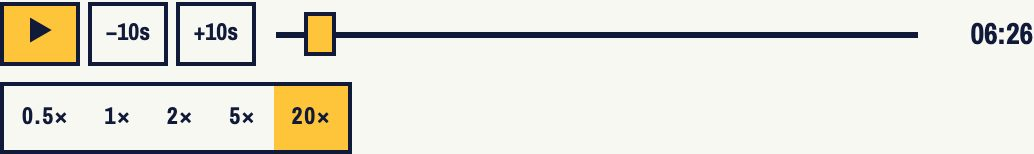
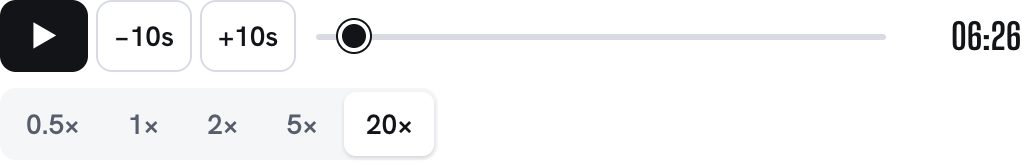
Ax61: follow C11 tokens: kit colours for cues, yellow only on pivot marks, 8px controls, blue focus, no middots

Changed region(s): [[0.0, 0.0, 1.0, 0.4675], [0.0, 0.5195, 0.4247, 1.0]]

diff --git a/apps/web/src/styles/control-bar.css b/apps/web/src/styles/control-bar.css
@@ -1,38 +1,42 @@
 /* Ax61: the one control bar for the replay pitch and the clips. */
-.ctl { display: flex; flex-wrap: wrap; align-items: center; gap: 8px 10px; font-family: var(--pv-label); font-weight: 700; font-size: 12px; min-width: 0; }
+.ctl { display: flex; flex-wrap: wrap; align-items: center; gap: 8px 10px; font-family: var(--pv-body); font-weight: 600; font-size: var(--pv-fs-sm); min-width: 0; }
 .ctl-btns { display: inline-flex; gap: 4px; }
-.ctl-btns button { min-width: 40px; height: 32px; padding: 0 6px; border: 2px solid var(--pv-ink); background: var(--pv-sheet); color: var(--pv-ink);
-  font: inherit; cursor: pointer; }
-.ctl-btns button.play { min-width: 40px; font-size: 13px; background: var(--pv-gold); color: var(--pv-on-gold); }
-.ctl-btns button:hover:not(:disabled) { background: var(--pv-gold-soft); }
-.ctl-btns button.play:hover:not(:disabled) { background: var(--pv-gold); filter: brightness(1.06); }
+/* Same look as .btn (C11): hairline, 8px corners; play is the ink primary. Yellow stays for the AI's pivots. */
+.ctl-btns button, .ctl .again { min-width: 44px; height: 36px; padding: 0 8px; border: 1px solid var(--pv-hair); border-radius: var(--pv-r-ctl);
+  background: var(--pv-sheet); color: var(--pv-ink); font: inherit; cursor: pointer; transition: background-color .15s, border-color .15s; }
+.ctl-btns button:hover:not(:disabled), .ctl .again:hover:not(:disabled) { background: var(--pv-sunk); border-color: var(--pv-ink-2); }
+.ctl-btns button.play { background: var(--pv-ink); color: var(--pv-sheet); border-color: var(--pv-ink); }
+.ctl-btns button.play:hover:not(:disabled) { background: color-mix(in oklab, var(--pv-ink) 82%, var(--pv-sheet)); }
+.ctl .again { font-size: 16px; }
 .ctl button:disabled { opacity: .5; cursor: default; }
-.ctl button:focus-visible { outline: 2px solid var(--pv-ink); outline-offset: 2px; }
-.ctl-track { position: relative; flex: 1 1 180px; min-width: 120px; height: 32px; }
-.ctl-track::before { content: ""; position: absolute; left: 0; right: 0; top: 15px; border-top: 3px solid var(--pv-ink); }
-.ctl-track input[type="range"] { position: absolute; inset: 0 -7px; width: calc(100% + 14px); height: 32px; margin: 0; background: transparent;
+.ctl-track { position: relative; flex: 1 1 180px; min-width: 120px; height: 36px; }
+.ctl-track::before { content: ""; position: absolute; left: 0; right: 0; top: 17px; height: 3px; border-radius: var(--pv-r-pill); background: var(--pv-hair); }
+.ctl-track input[type="range"] { position: absolute; inset: 0 -8px; width: calc(100% + 16px); height: 36px; margin: 0; background: transparent;
   appearance: none; cursor: pointer; }
-.ctl-track input[type="range"]::-webkit-slider-runnable-track { height: 32px; background: transparent; }
-.ctl-track input[type="range"]::-webkit-slider-thumb { appearance: none; width: 16px; height: 22px; margin-top: 5px; background: var(--pv-gold);
-  border: 2px solid var(--pv-ink); border-radius: 0; }
+.ctl-track input[type="range"]::-webkit-slider-runnable-track { height: 36px; background: transparent; }
+.ctl-track input[type="range"]::-webkit-slider-thumb { appearance: none; width: 16px; height: 16px; margin-top: 10px; border-radius: 50%;
+  background: var(--pv-ink); border: 2px solid var(--pv-sheet); box-shadow: 0 0 0 1px var(--pv-ink); }
 .ctl-track input[type="range"]::-moz-range-track { background: transparent; }
-.ctl-track input[type="range"]::-moz-range-thumb { width: 12px; height: 18px; background: var(--pv-gold); border: 2px solid var(--pv-ink); border-radius: 0; }
-.ctl-track input[type="range"]:focus-visible { outline: 2px solid var(--pv-ink); }
-/* A mark is a 16px target over the line; what shows is the small bar or dot inside it. */
-.ctl-mk { all: unset; position: absolute; top: 0; width: 16px; height: 12px; margin-left: -8px; cursor: pointer; z-index: 1; display: grid; place-items: center; }
-.ctl-mk i { display: block; width: 4px; height: 12px; background: var(--pv-red); }
-.ctl-mk.goal i { width: 10px; height: 10px; border-radius: 50%; background: #fff; border: 2px solid var(--pv-ink); }
-.ctl-mk.goal.home i { box-shadow: inset 0 0 0 2px var(--pv-home); }
-.ctl-mk.goal.away i { box-shadow: inset 0 0 0 2px var(--pv-away); }
-.ctl-mk.red i { width: 7px; height: 10px; background: var(--pv-red); border: 1.5px solid var(--pv-ink); }
-.ctl-mk.moment i { width: 8px; height: 8px; transform: rotate(45deg); background: var(--pv-gold); border: 1.5px solid var(--pv-ink); }
-.ctl-mk:hover i, .ctl-mk:focus-visible i { outline: 2px solid var(--pv-gold); outline-offset: 1px; }
-.ctl-time { font-size: 15px; min-width: 3.2em; text-align: right; }
+.ctl-track input[type="range"]::-moz-range-thumb { width: 12px; height: 12px; border-radius: 50%; background: var(--pv-ink); border: 2px solid var(--pv-sheet); }
+/* A mark is a 16px target over the line; what shows is the small dot inside it. Pivots are the AI's, so yellow. */
+.ctl-mk { all: unset; position: absolute; top: 2px; width: 16px; height: 14px; margin-left: -8px; cursor: pointer; z-index: 1; display: grid; place-items: center; border-radius: 4px; }
+.ctl-mk i { display: block; width: 10px; height: 10px; border-radius: 50%; background: var(--pv-gold); border: 1.5px solid var(--pv-ink); }
+.ctl-mk.goal i { background: var(--pv-sheet); border: 2px solid var(--pv-ink); }
+.ctl-mk.goal.home i { background: var(--pv-home); }
+.ctl-mk.goal.away i { background: var(--pv-away); }
+.ctl-mk.red i { width: 7px; height: 10px; border-radius: 1px; background: var(--pv-red); }
+.ctl-mk.moment i { width: 8px; height: 8px; border-radius: 1px; transform: rotate(45deg); background: var(--pv-ink-2); border-color: var(--pv-ink-2); }
+.ctl-mk:hover i { box-shadow: 0 0 0 2px var(--pv-sheet), 0 0 0 4px var(--pv-ink-2); }
+.ctl-mk:focus-visible { outline: 2px solid var(--pv-focus); outline-offset: 2px; }
+.ctl-time { font-family: var(--pv-display); font-weight: 700; font-size: var(--pv-fs-lg); min-width: 3.2em; text-align: right; font-variant-numeric: tabular-nums; }
 .ctl .seg button { min-height: 32px; }
 @media (max-width: 480px) {
   .ctl-track { order: -1; flex-basis: 100%; }
-  .ctl .seg button { padding-inline: 7px; }
+  .ctl .seg button { padding-inline: 8px; }
 }
+
+/* A referee's yellow card is data, not the AI's pivot yellow, so it gets its own, warmer shade. */
+:root { --pv-card-yellow: #F2B800; --pv-ball: #FFFFFF; }
 
 /* The event cues on the pitch: drawn in, then faded on real time; held while paused. */
 .pitch .cue { animation: cue-fade 2.2s ease-in forwards; }
@@ -48,15 +52,16 @@
 @keyframes cue-draw { to { stroke-dashoffset: 0; } }
 @keyframes cue-flash { from { transform: scale(.3); opacity: 1; } to { transform: scale(1.4); opacity: 0; } }
 @media (prefers-reduced-motion: reduce) {
+  .pitch .cue { animation: none; }
   .pitch .cue-line { animation: none; stroke-dashoffset: 0; }
   .pitch .cue-flash { animation: none; opacity: .8; }
 }
 .pitch.anim .pl { transition: none; }
-.pitch.anim .ball-trail { stroke: #fff; stroke-width: 3; stroke-dasharray: none; stroke-opacity: .55; stroke-linecap: round; stroke-linejoin: round; }
+.pitch.anim .ball-trail { stroke: var(--pv-ink); stroke-width: 2.5; stroke-dasharray: none; stroke-opacity: .4; stroke-linecap: round; stroke-linejoin: round; }
 
 /* The line under the pitch: what just happened, in the acting team's colour. */
 .pitch-cap .cap-ev { display: inline-flex; align-items: baseline; gap: 6px; }
-.pitch-cap .cap-ev::before { content: ""; width: 10px; height: 10px; flex: none; align-self: center; background: var(--pv-home); border: 1.5px solid var(--pv-ink); }
+.pitch-cap .cap-ev::before { content: ""; width: 10px; height: 10px; flex: none; align-self: center; border-radius: 50%; background: var(--pv-home); }
 .pitch-cap .cap-ev.away::before { background: var(--pv-away); }
 
 /* On the wide board the bar and the keys sit under the pitch; the caption and shape numbers beside it. */
@@ -68,4 +73,3 @@
   .pb-main:has(> .ctl) > .pitch-cap { grid-column: 2; grid-row: 1; }
   .pb-main:has(> .ctl) > .shape-table { grid-column: 2; grid-row: 2 / 4; }
 }
-.ctl .again { font-size: 16px; width: 40px; height: 32px; border: 2px solid var(--pv-ink); background: var(--pv-sheet); color: var(--pv-ink); cursor: pointer; }

diff --git a/apps/web/src/i18n/messages/es.ts b/apps/web/src/i18n/messages/es.ts
@@ -127,7 +127,7 @@ export const es: Messages = {
   "board.layers": "Capas del campo",
   "board.layerShape": "Dibujo del equipo",
   "board.layerCompare": "vs 5 min antes",
-  "board.legend": "Toca un punto para ver quién es. Aro blanco: con el balón · aro dorado discontinuo: en esta acción o giro.",
+  "board.legend": "Toca un punto para ver quién es. El aro blanco marca a quien lleva el balón; el discontinuo, a los de esta acción o giro.",
   "board.shapeFormation": "Sistema",
   "board.shapeBack": "Línea defensiva, m desde su portería",
   "board.shapeWidth": "Anchura, m",
@@ -590,10 +590,10 @@ export const es: Messages = {
   "ctl.label": "Controles de la repetición",
   "ctl.back": "Atrás {s} segundos",
   "ctl.on": "Adelante {s} segundos",
-  "ctl.goal": "{minute}′ Gol · {team}",
+  "ctl.goal": "{minute}′ Gol de {team}",
   "ctl.pivot": "{minute}′ Giro",
-  "ctl.red": "{minute}′ Roja · {team}",
-  "board.keys": "Teclas, con el campo seleccionado: Espacio reproducir/pausa · ←/→ 10 segundos (Mayús: 50) · pulsa una marca de la línea para ir allí",
+  "ctl.red": "{minute}′ Roja para {team}",
+  "board.keys": "Teclas, con el campo seleccionado: Espacio reproduce o pausa, las flechas izquierda y derecha mueven 10 segundos (Mayús: 50). Pulsa una marca de la línea para ir allí.",
   "keys.clipLabel": "Jugada del {minute}: {what}",
   "keys.clipIntro": "Justo antes…",
   "keys.clipSentOff": "Expulsado:",

diff --git a/apps/web/src/components/Pitch.tsx b/apps/web/src/components/Pitch.tsx
@@ -134,7 +134,7 @@ export default function Pitch({ frame, actions, selected, label, focus = null, w
             {onPick && <circle r={16} fill="transparent" />}
             {followed && <circle r={14} fill="none" stroke="var(--pv-gold)" strokeWidth={3} />}
             {ring === "picked" && <circle r={15} fill="none" stroke="var(--pv-ink)" strokeWidth={3} />}
-            {ring === "marked" && <circle r={14} fill="none" stroke="var(--pv-gold)" strokeWidth={3} strokeDasharray="5 3" />}
+            {ring === "marked" && <circle r={14} fill="none" stroke="var(--pv-ink)" strokeWidth={2.5} strokeDasharray="5 3" />}
             {ring === "carrier" && (
               <>
                 <circle r={14} fill="none" stroke="var(--pv-ink)" strokeWidth={6} />
@@ -157,7 +157,7 @@ export default function Pitch({ frame, actions, selected, label, focus = null, w
       <g className="pl" data-ball="" pointerEvents="none"
         style={animated ? undefined : { transform: `translate(${ball[0] + 8}px, ${ball[1] - 8}px)` }}>
         <circle r={7} fill="none" stroke="var(--pv-ink)" strokeOpacity={0.35} strokeWidth={4} />
-        <circle r={5} fill="#fff" stroke="var(--pv-ink)" strokeWidth={2} />
+        <circle r={5} fill="var(--pv-ball)" stroke="var(--pv-ink)" strokeWidth={2} />
       </g>
       {!animated && pickedAt && tag && <Label x={pickedAt.x * S} y={pickedAt.y * S} text={tag(pickedAt.player_id)} />}
     </svg>

diff --git a/apps/web/src/i18n/messages/zh.ts b/apps/web/src/i18n/messages/zh.ts
@@ -126,7 +126,7 @@ export const zh: Messages = {
   "board.layers": "球场图层",
   "board.layerShape": "整体站位",
   "board.layerCompare": "对比 5 分钟前",
-  "board.legend": "点圆点看是谁。白圈：持球人 · 金色虚线圈：这次动作或转折点里的球员。",
+  "board.legend": "点圆点看是谁。白圈是持球人，虚线圈是这次动作或转折点里的球员。",
   "board.shapeFormation": "阵型",
   "board.shapeBack": "防线离自家球门（米）",
   "board.shapeWidth": "横向宽度（米）",
@@ -588,10 +588,10 @@ export const zh: Messages = {
   "ctl.label": "回放控制",
   "ctl.back": "后退 {s} 秒",
   "ctl.on": "前进 {s} 秒",
-  "ctl.goal": "{minute}′ 进球 · {team}",
+  "ctl.goal": "{minute}′ {team} 进球",
   "ctl.pivot": "{minute}′ 转折点",
-  "ctl.red": "{minute}′ 红牌 · {team}",
-  "board.keys": "键盘（先点一下球场）：空格 播放/暂停 · ←/→ 退/进 10 秒（按住 Shift 50 秒）· 点进度条上的标记直接跳过去",
+  "ctl.red": "{minute}′ {team} 红牌",
+  "board.keys": "键盘（先点一下球场）：空格播放或暂停，左右方向键后退或前进 10 秒（按住 Shift 是 50 秒）。点进度条上的标记直接跳过去。",
   "keys.clipLabel": "{minute} {what} 的片段",
   "keys.clipIntro": "就在这之前……",
   "keys.clipSentOff": "被罚下：",

diff --git a/apps/web/src/components/motion.tsx b/apps/web/src/components/motion.tsx
@@ -102,8 +102,8 @@ export function EventCues({ cues }: { cues: Cue[] }) {
             {c.kind === "pass" && c.to && <circle cx={x2} cy={y2} r={5} fill={stroke} stroke="var(--pv-sheet)" strokeWidth={1.5} />}
             {c.kind === "goal" && c.to && (
               <>
-                <circle className="cue-flash" cx={x2} cy={y2} r={18} fill="none" stroke="var(--pv-gold)" strokeWidth={4} />
-                <circle cx={x2} cy={y2} r={8} fill={stroke} stroke="var(--pv-gold)" strokeWidth={3} />
+                <circle className="cue-flash" cx={x2} cy={y2} r={18} fill="none" stroke={stroke} strokeWidth={4} />
+                <circle cx={x2} cy={y2} r={8} fill={stroke} stroke="var(--pv-sheet)" strokeWidth={3} />
               </>
             )}
             {c.kind === "shot" && c.to && (
@@ -122,7 +122,7 @@ export function EventCues({ cues }: { cues: Cue[] }) {
               </g>
             )}
             {(c.kind === "yellow" || c.kind === "red") && (
-              <rect x={x1 - 6} y={y1 - 32} width={12} height={17} rx={1.5} fill={c.kind === "red" ? "var(--pv-red)" : "#f2c200"}
+              <rect x={x1 - 6} y={y1 - 32} width={12} height={17} rx={1.5} fill={c.kind === "red" ? "var(--pv-red)" : "var(--pv-card-yellow)"}
                 stroke="var(--pv-ink)" strokeWidth={1.5} transform={`rotate(12 ${x1} ${y1 - 24})`} />
             )}
           </g>

diff --git a/apps/web/src/i18n/messages/en.ts b/apps/web/src/i18n/messages/en.ts
@@ -126,7 +126,7 @@ export const en = {
   "board.layers": "Pitch layers",
   "board.layerShape": "Team shape",
   "board.layerCompare": "vs 5 min before",
-  "board.legend": "Tap a dot to see who it is. White ring: on the ball · dashed gold: in this action or pivot.",
+  "board.legend": "Tap a dot to see who it is. A white ring marks the player on the ball, a dashed ring the players in this action or pivot.",
   "board.shapeFormation": "Formation",
   "board.shapeBack": "Back line, m from own goal",
   "board.shapeWidth": "Width, m",
@@ -589,10 +589,10 @@ export const en = {
   "ctl.label": "Replay controls",
   "ctl.back": "Back {s} seconds",
   "ctl.on": "Forward {s} seconds",
-  "ctl.goal": "{minute}′ Goal · {team}",
+  "ctl.goal": "{minute}′ Goal, {team}",
   "ctl.pivot": "{minute}′ Pivot",
-  "ctl.red": "{minute}′ Red card · {team}",
-  "board.keys": "Keys, with the pitch focused: Space play/pause · ←/→ 10 seconds (Shift: 50) · click a mark on the line to jump there",
+  "ctl.red": "{minute}′ Red card, {team}",
+  "board.keys": "Keys, with the pitch focused: Space plays and pauses, the left and right arrows move 10 seconds (Shift: 50). Click a mark on the line to jump there.",
   "keys.clipLabel": "Clip of {minute} {what}",
   "keys.clipIntro": "Just before…",
   "keys.clipSentOff": "Sent off:",

diff --git a/apps/web/src/components/ClipPlayer.tsx b/apps/web/src/components/ClipPlayer.tsx
@@ -218,7 +218,7 @@ function Marks({ marks }: { marks: ClipMark[] }) {
     <g className="clip-marks" pointerEvents="none">
       {marks.map((m, i) => m.at && (
         <g key={i}>
-          <circle className="cue-flash" cx={m.at[0] * S} cy={m.at[1] * S} r={22} fill="none" stroke="var(--pv-gold)" strokeWidth={3} />
+          <circle className="cue-flash" cx={m.at[0] * S} cy={m.at[1] * S} r={22} fill="none" stroke="var(--pv-ink)" strokeWidth={3} />
           <KeyMark kind={m.kind} side={m.side} x={m.at[0] * S} y={m.at[1] * S - 20} size={1.6} />
         </g>
       ))}
